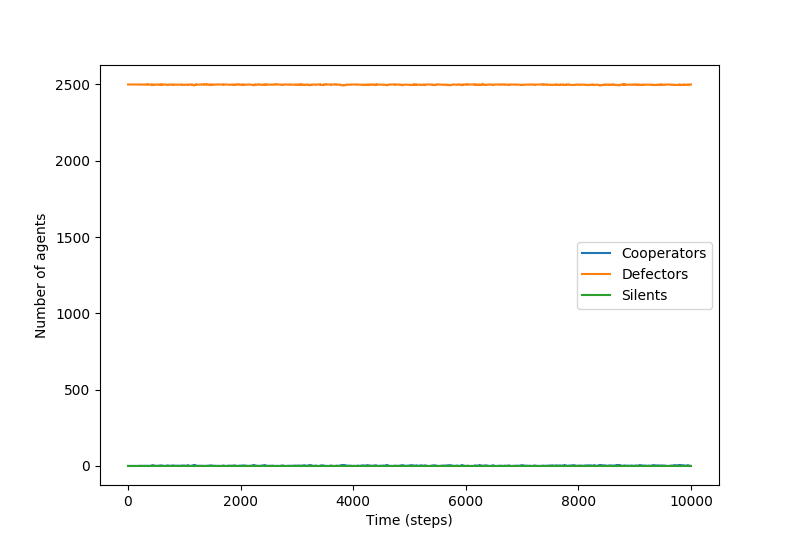
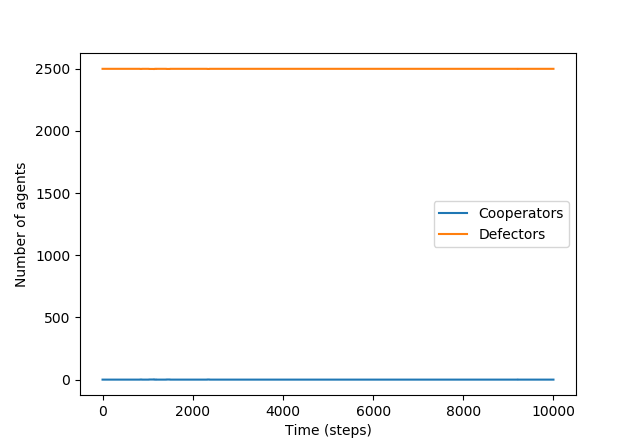
cleaning up, fixing graphs.

diff --git a/code/BasicWorld.py b/code/BasicWorld.py
@@ -12,16 +12,15 @@ import random
 import time
 import datetime
 import json
-
 """
+
 TODO:
-Nick -- Experiments 2/3
-
-Adam -- Graphing of type of person over time
+1) redo graphs on report (exp 2/3)
+2) Do ppt
+3) figure out extension and do
+4) re-edit paper including extension
 
 """
-
-
 class Strategy(Enum):
     c = 0
     d = 1
@@ -201,7 +200,6 @@ class BasicWorld:
         plt.xticks([])
         plt.yticks([])
         plt.title(f"World state on turn {self.curr_step}")
-        plt.legend("Defector", "Cooperator")
         red_patch = mpatches.Patch(color="red", label="Cooperator")
         blue_patch = mpatches.Patch(color="blue", label="Defector")
         plt.legend(
@@ -339,14 +337,17 @@ if __name__ == "__main__":
                 stats[key].append(value)
 
         if x % 1000 == 0:
-            world.animate(1)
+            # world.animate(1)
             print(x / num * 100)
 
     world.animate(1)
 
-    plt.plot(stats["time"], stats["num_c"], label="Cooperators")
-    plt.plot(stats["time"], stats["num_d"], label="Defectors")
-    plt.plot(stats["time"], stats["num_s"], label="Silents")
+    if max(stats["num_c"]) > 0:
+        plt.plot(stats["time"], stats["num_c"], label="Cooperators")
+    if max(stats["num_d"]) > 0:
+        plt.plot(stats["time"], stats["num_d"], label="Defectors")
+    if max(stats["num_s"]) > 0:
+        plt.plot(stats["time"], stats["num_s"], label="Silents")
 
     plt.xlabel("Time (steps)")
     plt.ylabel("Number of agents")

diff --git a/reports/project_report_draft1.md b/reports/project_report_draft1.md
@@ -30,7 +30,7 @@ The constant u is set to 0.09 in this simulation.  The PD is played against ever
 1 / 3, 1 / 2, 1 / 2, 1 / 2, 1 / 2, 1 / 2, 1 / 3
 1 / 3, 1 / 3, 1 / 3, 1 / 3, 1 / 3, 1 / 3, 1 / 3
 ```
-Figure M: Cells play the PD against every other cell within 3 spaces, with varying weights.
+Figure 2: Cells play the PD against every other cell within 3 spaces, with varying weights.
 
  Each cell cooperates or defects according to its genome.  There are three "behavior" alleles: Cooperate (C), which always cooperates; Defect (D), which always defects; and Silent (S), which defects for a time and then begins to cooperate.  The "timer" that controls the transition is initialized (exponentially distributed, with a mean of 200 steps) when a cell mutates into the S strategy, and is passed on if it replicates.
 
@@ -43,10 +43,12 @@ Replication is controlled by fitness.  During each timestep, each cell plays the
 The first step of the experiment is to prove that if a cluster of cooperators exists, it can expand and dominate the biofilm.  To test this, we simulate a biofilm without mutation.  A square of varying size in the center of the film is initialized with cooperators, and the rest of the film is filled with defectors.
 
 ![A 5x5 run of experiment 1 that survives](images/exp1_5x5_success.png)
-Figure 2: An example of experiment 1 where a 5x5 block of cooperators survives and dominates the system.
+
+Figure 3: An example of experiment 1 where a 5x5 block of cooperators survives and dominates the system.
 
 ![A 5x5 run of experiment 1 that dies](images/exp1_5x5_failure.png)
-Figure 3: An example of experiment 1 where a 5x5 block of cooperators dies off.
+
+Figure 4: An example of experiment 1 where a 5x5 block of cooperators dies off.
 
 #### Results of Experiment 1
 Hashem et al. found that when the square of cooperators is smaller than 6x6, it tends to be taken over by defectors; when it is 6x6 or larger, it tends to expand.  In order to test our model's similarity, we test multiple times at a 5x5 grid, and find that the cooperators might survive or die out, depending on luck. Two sample runs can be seen below. 4x4 cooperator blocks reliably die out, and 6x6 cooperator blocks reliably survive.
@@ -54,28 +56,33 @@ Hashem et al. found that when the square of cooperators is smaller than 6x6, it 
 The results of our first experiment show that, while the system is not totally deterministic, groups of cooperators do seem to expand if they reach a critical size of around 5x5.  In contrast to Hashem et al., 5x5 clusters seem unstable; the other results are consistent with their findings.
 
 ### Experiment 2: Mutation
-Once we have established that a sufficiently-sized cluster of cooperators will spread across the biofilm, we investigate how these clusters can arise.  In our second experiment, we remove the starting cluster of cooperators, and add a chance of mutation.  Mutations can happen to the general fitness gene, the behavior gene, or both, as specified in the Overview.  The silent-cooperator allele is disabled; no cell can mutate into it.
+Once we have established that a sufficiently-sized cluster of cooperators will spread across the biofilm, we investigate how these clusters can arise.  In our second experiment, we remove the starting cluster of cooperators, and add a chance of mutation.  Mutations can happen to the general fitness gene, the behavior gene, or both, as specified in the Overview.  The silent-cooperator allele is disabled; no cell can mutate into it. We used a mutation rate of 1e-4 as in the original paper for results published, but also ran tests at 1e-2 and 1e-3 and got the same results.
 
 #### Results of Experiment 2
-We expect the grid to be stably full of defectors, with a few cooperators occurring randomly but never spreading.  This is in fact what we observe.  It is consistent with Hashem et al.'s findings.
+We expect the grid to be stably full of defectors, with a few cooperators occurring randomly but never spreading.  This is in fact what we observe.  It is consistent with Hashem et al.'s findings. Below is a few snapshots of the world during its development.
 
 ![](images/exp2_t0.png)  
-Figure n: The starting state of the world.
+
+Figure 5: The starting state of the world.
 
 ![](images/exp2_t2001.png)  
-Figure n+1: The state of the world after 2001 steps. Cooperators are beginning to appear.
+
+Figure 6: The state of the world after 2001 steps. Cooperators are beginning to appear.
 
 ![](images/exp2_t8001.png)  
-Figure n+2: The state of the world after 8001 steps. Defectors still dominate.
 
-![](images/exp2_t10000.png) 
-Figure n+3: The state of the world after 10000 steps. As at step 8001, there are no cooperators alive.
+Figure 7: The state of the world after 8001 steps. Defectors still dominate.
 
-![](images/exp2_cells_over_time.png)  
-Figure n+4: The state of the world over time. The world is dominated by defectors, with cooperators providing only a bit of noise.
+![](images/exp2_t10000.png)
+
+Figure 8: The state of the world after 10000 steps. As at step 8001, there are no cooperators alive.
+
+![](images/exp2_cells_over_time.png)
+ 
+Figure 9: The state of the world over time. The world is dominated by defectors, with cooperators providing only a bit of noise.
 
 ### Experiment 3: Add silent-cooperator state
-The third experiment involves adding a silent-cooperator allele that means that a cell will become a cooperator after a certain number of timesteps. This means that the model will be run for a number of generations before the genes become "activate," resulting in sleeper agents that will awaken and begin being cooperative. Those with the gene will pass it on to other cells if they are successfully dominant early-on, resulting in clusters suddenly forming later on that are above the critical threshold for cooperator success. Within the experiment, the amount of time before activation was exponentially distributed with a mean of 200 time steps. A sample run of the experiment can be seen in the below sampling of images at steps 1, 3001, and 10000.
+The third experiment involves adding a silent-cooperator allele that means that a cell will become a cooperator after a certain number of timesteps. This means that the model will be run for a number of generations before the genes become "activate," resulting in sleeper agents that will awaken and begin being cooperative. Those with the gene will pass it on to other cells if they are successfully dominant early-on, resulting in clusters suddenly forming later on that are above the critical threshold for cooperator success. Within the experiment, the amount of time before activation was exponentially distributed with a mean of 200 time steps. A sample run of the experiment can be seen in the below sampling of images at steps 1, 1001, 3001, and 10000.
 
 ![](images/exp3_t0.png)  
 Figure n: The starting state of the world.
